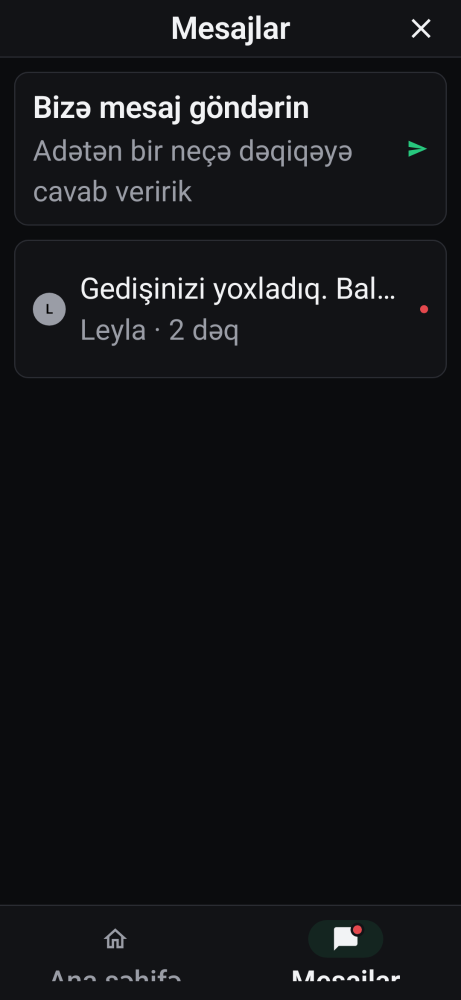
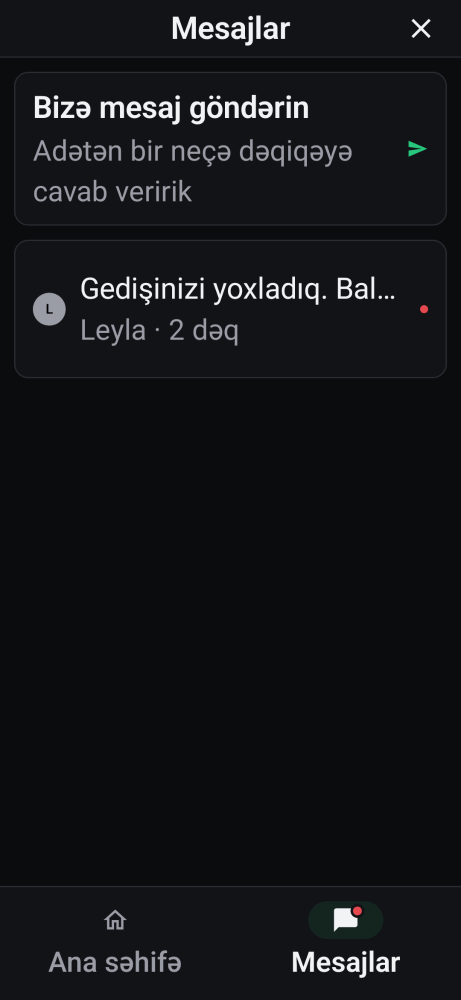
CM-077: Home's header stretches on overscroll; the brand name grows at most 1.5x
As on iOS:
- Pulled down past its top, Home showed the page's grey above the
  header. The header's colour now lies behind the page for the header's
  height, so the header seems to stretch.
- The brand name follows the user's font size up to 1.5 times, no more
  (it shares a row with the avatars and the close button); the rest of
  the text is not capped.
- The tab bar grows past 80 dp when a large font size needs it: at 200%
  its labels were cut.

Changed region(s): [[0.6377, 0.899, 0.8807, 0.992], [0.0911, 0.899, 0.3948, 0.992]]

diff --git a/android/messenger/src/main/kotlin/ai/clomni/messenger/ui/HomeView.kt b/android/messenger/src/main/kotlin/ai/clomni/messenger/ui/HomeView.kt
@@ -41,10 +41,12 @@ import androidx.compose.ui.draw.clip
 import androidx.compose.ui.draw.drawBehind
 import androidx.compose.ui.draw.drawWithContent
 import androidx.compose.ui.geometry.Offset
+import androidx.compose.ui.geometry.Size
 import androidx.compose.ui.graphics.Brush
 import androidx.compose.ui.graphics.Color
 import androidx.compose.ui.graphics.drawscope.withTransform
 import androidx.compose.ui.layout.ContentScale
+import androidx.compose.ui.layout.onSizeChanged
 import androidx.compose.ui.platform.LocalConfiguration
 import androidx.compose.ui.platform.LocalContext
 import androidx.compose.ui.platform.LocalDensity
@@ -62,8 +64,15 @@ import coil.compose.AsyncImage
 /** The Home tab (brief 8·7.3): the brand header with the greeting, and the cards riding up over it by 40. */
 @Composable
 internal fun HomeView(screen: HomeScreen, theme: ClomniTheme, actions: MessengerActions) {
-    Column(Modifier.fillMaxSize().background(theme.colors.canvas.color).verticalScroll(rememberScrollState())) {
-        HomeHeader(screen.header, theme, actions.close)
+    val scroll = rememberScrollState()
+    var headerHeight by remember { mutableStateOf(0) }
+    // Behind the page, the header's colour for its own height: pulled down past the top (overscroll), the header seems
+    // to stretch and the page's grey never shows above it.
+    val backdrop = Modifier.drawBehind {
+        drawRect(theme.colors.headerFrom.color, size = Size(size.width, (headerHeight - scroll.value).coerceAtLeast(0).toFloat()))
+    }
+    Column(Modifier.fillMaxSize().background(theme.colors.canvas.color).then(backdrop).verticalScroll(scroll)) {
+        Box(Modifier.onSizeChanged { headerHeight = it.height }) { HomeHeader(screen.header, theme, actions.close) }
         screen.offline?.let { OfflineStrip(it, theme) }
         val cards = Modifier.padding(horizontal = ClomniTheme.Space.l.dp)
         // Under the offline strip the cards cannot ride up over the header.
@@ -217,7 +226,9 @@ private fun BrandMark(header: HomeScreen.Header, theme: ClomniTheme, modifier: M
         BasicText(
             header.brandName,
             Modifier.weight(1f, fill = false),
-            style = clomniText(ClomniTheme.FontSize.brand, theme.colors.headerText, FontWeight.SemiBold, lineHeight = 1.25f),
+            // The name grows with the user's font size up to 1.5 times, no more: it shares its row with the buttons.
+            style = clomniText(ClomniTheme.FontSize.brand, theme.colors.headerText, FontWeight.SemiBold, lineHeight = 1.25f)
+                .capFontScale(1.5f),
             maxLines = 1,
             overflow = TextOverflow.Ellipsis,
         )

diff --git a/android/messenger/src/main/kotlin/ai/clomni/messenger/ui/MessengerTabs.kt b/android/messenger/src/main/kotlin/ai/clomni/messenger/ui/MessengerTabs.kt
@@ -21,12 +21,14 @@ import androidx.compose.foundation.isSystemInDarkTheme
 import androidx.compose.foundation.layout.Arrangement
 import androidx.compose.foundation.layout.Box
 import androidx.compose.foundation.layout.Column
+import androidx.compose.foundation.layout.IntrinsicSize
 import androidx.compose.foundation.layout.Row
 import androidx.compose.foundation.layout.WindowInsets
 import androidx.compose.foundation.layout.fillMaxHeight
 import androidx.compose.foundation.layout.fillMaxSize
 import androidx.compose.foundation.layout.fillMaxWidth
 import androidx.compose.foundation.layout.height
+import androidx.compose.foundation.layout.heightIn
 import androidx.compose.foundation.layout.navigationBars
 import androidx.compose.foundation.layout.offset
 import androidx.compose.foundation.layout.padding
@@ -133,7 +135,8 @@ internal fun MessengerTabs(
 private fun TabBar(tabs: HomeScreen.Tabs, selected: MessengerTab, select: (MessengerTab) -> Unit, theme: ClomniTheme) {
     Column(Modifier.background(theme.colors.background.color).windowInsetsPadding(WindowInsets.navigationBars)) {
         Box(Modifier.fillMaxWidth().height(1.dp).background(theme.colors.border.color))
-        Row(Modifier.fillMaxWidth().height(80.dp)) {
+        // 80 dp, and taller when a large font size needs it: the labels are never cut.
+        Row(Modifier.fillMaxWidth().heightIn(min = 80.dp).height(IntrinsicSize.Min)) {
             val home = selected == MessengerTab.HOME
             val homeIcon = if (home) R.drawable.clomni_ic_home_filled else R.drawable.clomni_ic_home
             TabItem(tabs.home, tabs.home, homeIcon, home, false, theme) { select(MessengerTab.HOME) }

diff --git a/android/messenger/src/main/kotlin/ai/clomni/messenger/ui/ThemeStyle.kt b/android/messenger/src/main/kotlin/ai/clomni/messenger/ui/ThemeStyle.kt
@@ -72,6 +72,15 @@ internal fun clomniText(
     textDirection = TextDirection.Content,
 )
 
+/** This style's sizes (sp) grow with the user's font size up to [max] times, no further. */
+@androidx.compose.runtime.Composable
+internal fun TextStyle.capFontScale(max: Float): TextStyle {
+    val scale = androidx.compose.ui.platform.LocalDensity.current.fontScale
+    if (scale <= max) return this
+    val factor = max / scale
+    return copy(fontSize = fontSize * factor, lineHeight = lineHeight * factor)
+}
+
 /**
  * A Home card: background, radius 12, padding 12×14, a soft shadow (a 1 dp border in dark mode). With [onClick] the
  * whole card is one button read out as [label].
